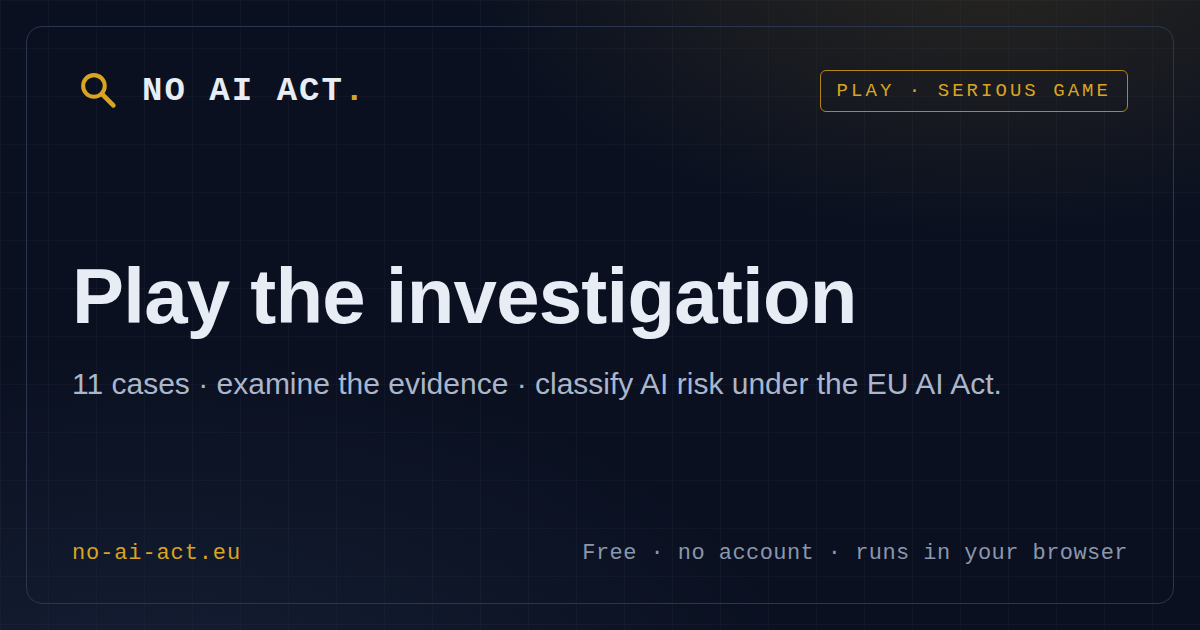
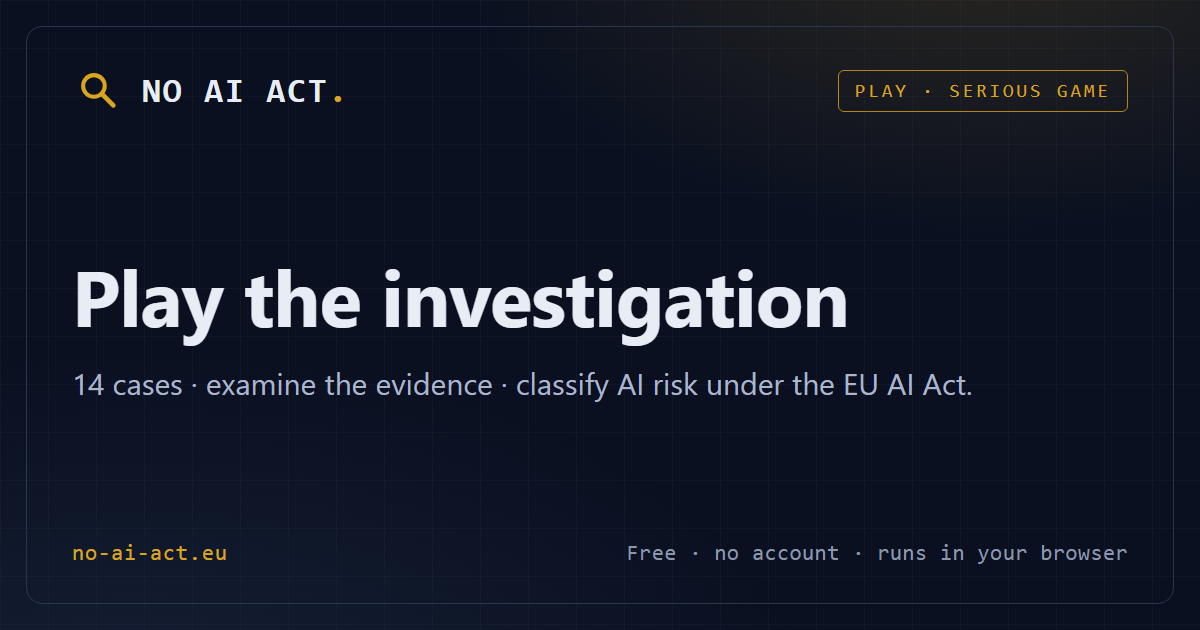
fix: update social previews to 14 cases

diff --git a/tests/releaseIntegrity.test.ts b/tests/releaseIntegrity.test.ts
@@ -75,6 +75,15 @@ describe('case-count consistency — source tree', () => {
     expect(llms).not.toMatch(FORBIDDEN);
   });
 
+  it('social-card sources state the authoritative count and no superseded claim', () => {
+    const generator = read('scripts/social/generate-og-images.mjs');
+    const metadata = read('scripts/social/meta.config.json');
+    expect(generator).toContain(`${N} cases`);
+    expect(metadata).toContain(`${N} sistemi`);
+    expect(generator).not.toMatch(FORBIDDEN);
+    expect(metadata).not.toMatch(FORBIDDEN);
+  });
+
   it('both landings state the authoritative count in body, meta and JSON-LD', () => {
     for (const [p, words] of [['index.html', [`${N} casi`, 'Quattordici casi']], ['en/index.html', [`${N} cases`, 'Fourteen cases']]] as const) {
       const html = read(p);
